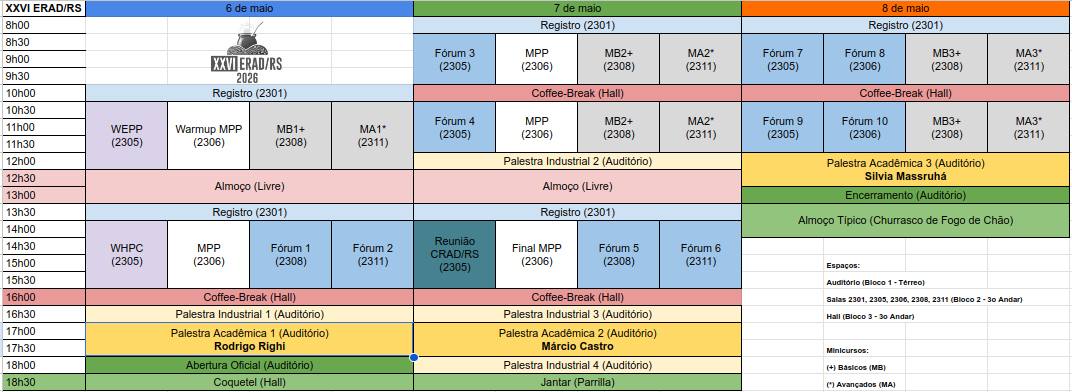
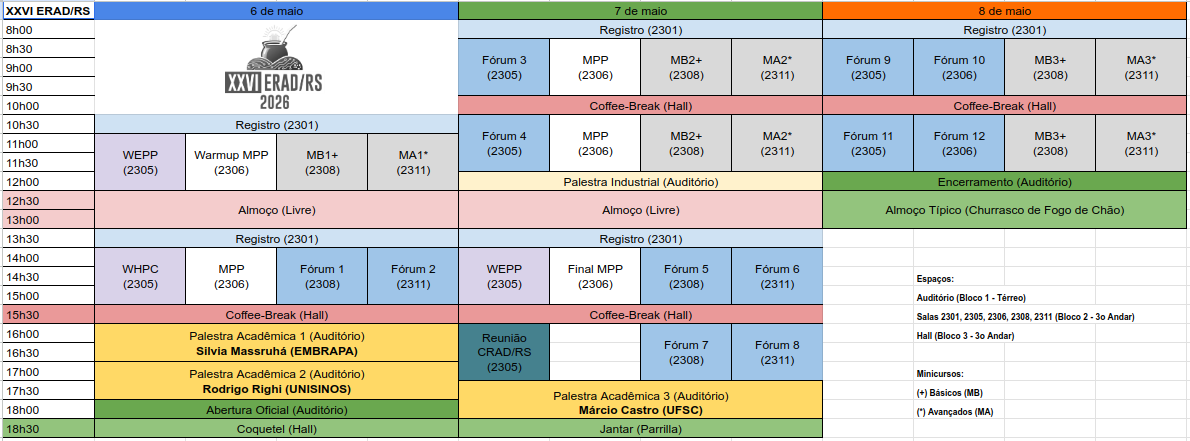
comites

diff --git a/_site/organizacao.html b/_site/organizacao.html
@@ -278,33 +278,63 @@
             <h4>Comitê de Programa de IC</h4>
             <ul>
                 
-                <li>Carlos A. Maziero (UFPR)</li>
+                <li>Adriano Vogel - Pontifícia Universidade Católica do Rio Grande do Sul</li>
                 
-                <li>Carlos Rolim (UFRGS)</li>
+                <li>Ana Cristina B. Kochem Vendramin - Universidade Tecnológica Federal do Paraná</li>
                 
-                <li>Claudio Geyer (UFRGS)</li>
+                <li>Andre Rauber Du Bois - Universidade Federal de Pelotas</li>
                 
-                <li>Gerson Geraldo H. Cavalheiro (UFPEL)</li>
+                <li>Andriele Busatto do Carmo - Universidade do Vale do Rio Dos Sinos</li>
                 
-                <li>Leonardo Bidese de Pinho (UNIPAMPA)</li>
+                <li>Arthur Francisco Lorenzon - Universidade Federal do Rio Grande do Sul</li>
                 
-                <li>Luis Carlos Erpen De Bona (UFPR)</li>
+                <li>Carlos Moratelli - Universidade Federal de Santa Catarina</li>
                 
-                <li>Matheus S. Serpa (UFRGS)</li>
+                <li>Claudio Geyer - Universidade Federal do Rio Grande do Sul</li>
                 
-                <li>Odorico M. Mendizabal (UFSC)</li>
+                <li>Claudio Schepke - Universidade Federal do Pampa</li>
                 
-                <li>Patricia Della Méa Plentz (UFSC)</li>
+                <li>Dalvan Griebler - Pontifícia Universidade Católica do Rio Grande do Sul</li>
                 
-                <li>Philippe Olivier Alexandre Navaux (UFRGS)</li>
+                <li>Eduardo Camilo Inacio - Universidade Federal de Santa Catarina</li>
                 
-                <li>Ricardo Jose Pfitscher (UFSC)</li>
+                <li>Gabriel Luca Nazar - Federal University of Rio Grande do Sul</li>
                 
-                <li>Rodrigo da Rosa Righi (Unisinos)</li>
+                <li>Gerson Geraldo H. Cavalheiro - Universidade Federal de Pelotas</li>
                 
-                <li>Sandro da Silva Carmargo (UNIPAMPA)</li>
+                <li>Guilherme Galante - Universidade Estadual do Oeste do Paraná</li>
                 
-                <li>Vinicius Garcia Pinto (FURG)</li>
+                <li>Guilherme Piêgas. Koslovski - Universidade do Estado de Santa Catarina</li>
+                
+                <li>Hylson Vescovi Netto - Instituto Federal Catarinense</li>
+                
+                <li>João Vicente Ferreira Lima - Universidade Federal de Santa Maria</li>
+                
+                <li>Leonardo Pinho - Universidade Federal do Pampa</li>
+                
+                <li>Lucas Mello Schnorr - Universidade Federal do Rio Grande do Sul</li>
+                
+                <li>Luis Carlos Erpen de Bona - Federal University of Parana</li>
+                
+                <li>Marcia Pasin - Universidade Federal de Santa Maria</li>
+                
+                <li>Márcio Castro - Federal University of Santa Catarina</li>
+                
+                <li>Marco A. Zanata Alves - Universidade Federal do Paraná</li>
+                
+                <li>Odorico M. Mendizabal - Universidade Federal de Santa Catarina</li>
+                
+                <li>Patricia Pitthan Barcelos - Universidade Federal de Santa Maria</li>
+                
+                <li>Philippe Olivier Alexandre Navaux - Universidade Federal do Rio Grande do Sul</li>
+                
+                <li>Rafael R. Obelheiro - Universidade do Estado de Santa Catarina</li>
+                
+                <li>Samuel Da Silva Feitosa - Universidade Federal Da Fronteira Sul</li>
+                
+                <li>Tiago Coelho Ferreto - Pontifícia Universidade Católica do Rio Grande do Sul</li>
+                
+                <li>Vinicius Garcia Pinto - Universidade Federal do Rio Grande</li>
                 
             </ul>
         </div>
@@ -312,51 +342,55 @@
             <h4>Comitê de Programa de PG</h4>
             <ul>
                 
-                <li>Adenauer Yamin (UCPEL e UFPEL)</li>
+                <li>Adenauer Yamin - Universidade Federal de Pelotas</li>
                 
-                <li>Andre Martinotto (UCS)</li>
+                <li>Andre Martinotto - Universidade de Caxias do Sul</li>
                 
-                <li>Arthur Francisco Lorenzon (UFRGS)</li>
+                <li>Arthur Francisco Lorenzon - Universidade Federal do Rio Grande do Sul</li>
                 
-                <li>Charles Christian Miers (UDESC)</li>
+                <li>Charles Christian Miers - Universidade do Estado de Santa Catarina</li>
                 
-                <li>Daniel Alfonso Gonçalves d Oliveira (UFPR)</li>
+                <li>Daniel Alfonso Gonçalves de Oliveira - Universidade Federal do Paraná</li>
                 
-                <li>Edson Luiz Padoin (UNIJUI)</li>
+                <li>Edson Luiz Padoin - Universidade Regional do Noroeste do Estado do Rio Grande do Sul</li>
                 
-                <li>Gerson Geraldo H. Cavalheiro (UFPEL)</li>
+                <li>Gabriel Freytag - Universidade Federal do Rio Grande do Sul</li>
                 
-                <li>Guilherme Galante (UNIOESTE)</li>
+                <li>Gerson Geraldo H. Cavalheiro - Universidade Federal de Pelotas</li>
                 
-                <li>Guilherme P. Koslovski (UDESC)</li>
+                <li>Guilherme Galante - Universidade Estadual do Oeste do Paraná</li>
                 
-                <li>João Vicente Ferreira Lima (UFSM)</li>
+                <li>Guilherme Piêgas. Koslovski - Universidade do Estado de Santa Catarina</li>
                 
-                <li>Leonardo Bidese de Pinho (UNIPAMPA)</li>
+                <li>João Vicente Ferreira Lima - Universidade Federal de Santa Maria</li>
                 
-                <li>Marcio Oyamada (UNIOESTE)</li>
+                <li>Leonardo Pinho - Universidade Federal do Pampa</li>
                 
-                <li>Marco A. Zanata Alves (UFPR)</li>
+                <li>Lucas Mello Schnorr - Universidade Federal do Rio Grande do Sul</li>
                 
-                <li>Mateus Beck Rutzig (UFSM)</li>
+                <li>Márcio Castro - Federal University of Santa Catarina</li>
                 
-                <li>Márcio Castro (UFSC)</li>
+                <li>Marcio Oyamada - Universidade Estadual do Oeste do Paraná</li>
                 
-                <li>Odorico M. Mendizabal (UFSC)</li>
+                <li>Marco A. Zanata Alves - Universidade Federal do Paraná</li>
                 
-                <li>Philippe Olivier Alexandre Navaux (UFRGS)</li>
+                <li>Mateus Beck Rutzig - Federal University of Santa Maria</li>
                 
-                <li>Rodrigo da Rosa Righi (Unisinos)</li>
+                <li>Odorico M. Mendizabal - Universidade Federal de Santa Catarina</li>
                 
-                <li>Samuel da Silva Feitosa (UFFS)</li>
+                <li>Philippe Olivier Alexandre Navaux - Universidade Federal do Rio Grande do Sul</li>
                 
-                <li>Sandro da Silva Camargo (UNIPAMPA)</li>
+                <li>Rodrigo Da Rosa Righi - Universidade do Vale do Rio dos Sinos</li>
                 
-                <li>Simone Dominico (UFPR)</li>
+                <li>Sandro Da Silva Camargo - Universidade Federal do Pampa</li>
                 
-                <li>Tiago Coelho Ferreto (PUCRS)</li>
+                <li>Simone dominico - Universidade Federal do Paraná</li>
                 
-                <li>Wagner Machado Nunan Zola (UFPR)</li>
+                <li>Tiago Coelho Ferreto - Pontifícia Universidade Católica do Rio Grande do Sul</li>
+                
+                <li>Vinicius Garcia Pinto - Universidade Federal do Rio Grande</li>
+                
+                <li>Wagner M. Nunan Zola - Universidade Federal do Paraná</li>
                 
             </ul>
         </div>
